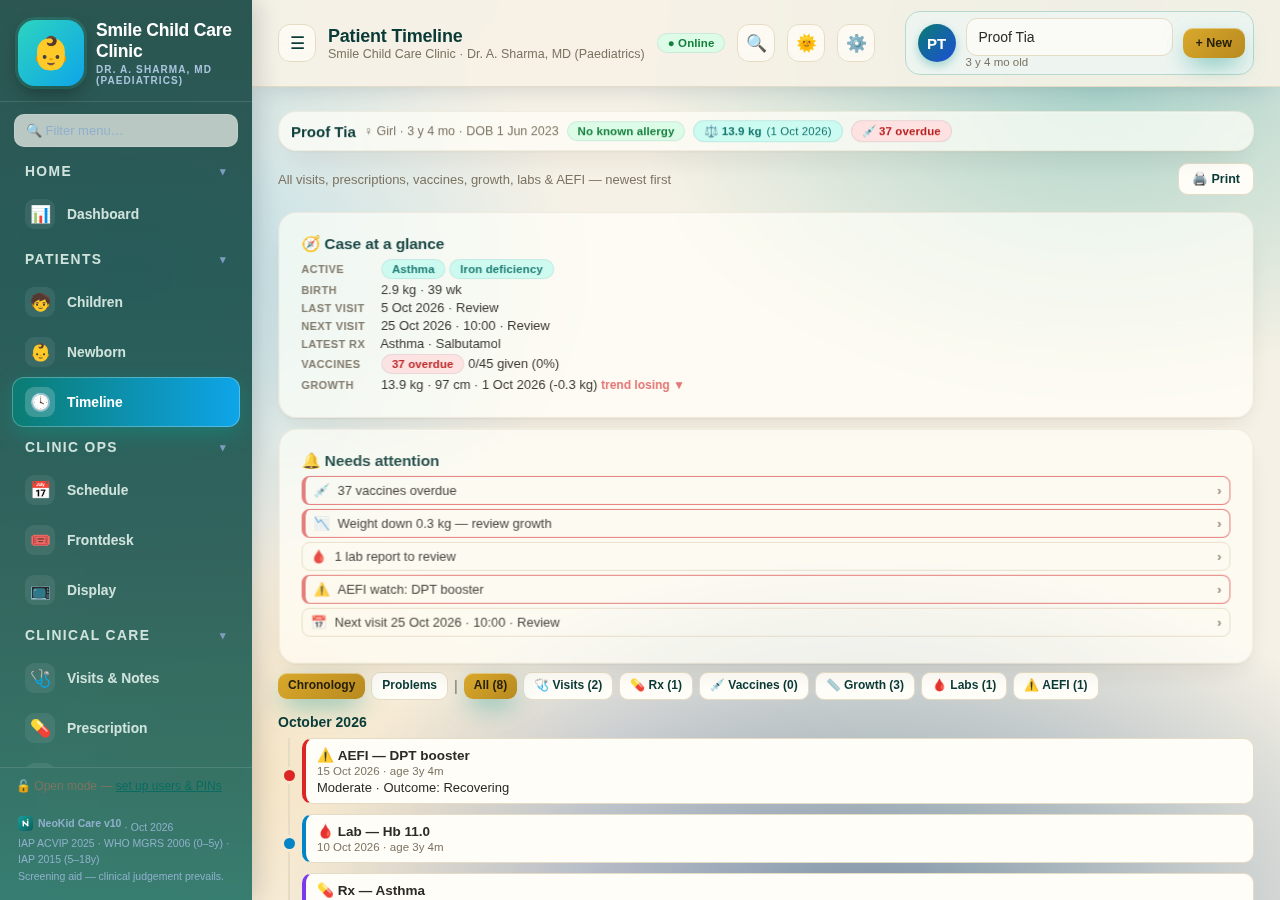
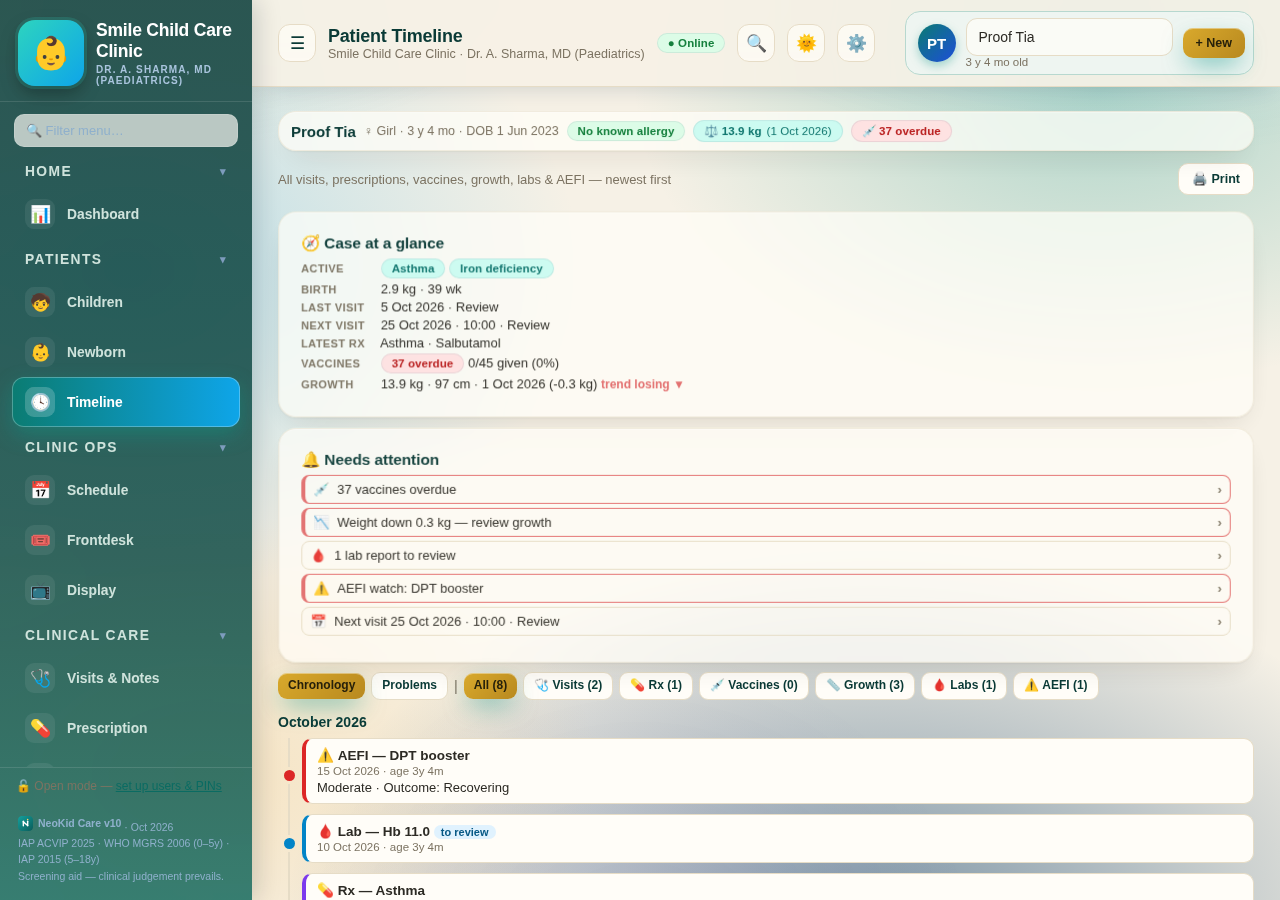
Phase U: category cards in Problems view (Issues/Growth/Vaccine/Labs)
Problems view becomes 4 summary cards with tap-expand; Issues leads
with attention rows then problem groups; AEFI folds into Vaccine;
chips select cards (solo force-opens); lab events carry review flag.
timeline 67/67; suite 21/21 + smoke 8/8; phaseTproof 11/11.
Train v10.52 / SW neokid-v47.

diff --git a/js/app.js b/js/app.js
@@ -726,6 +726,7 @@ function renderChildren() {
 let TIMELINE_FILTER = "all";
 let TIMELINE_VIEW = "chrono"; // Phase T: chrono | problems
 const TIMELINE_OPEN = {}; // Phase T: expanded one-liner keys (stable per data+filter)
+const TIMELINE_CARDS = { issues: 1 }; // Phase U: expanded card keys (issues open by default)
 const TIMELINE_FILTERS = [["all", "All"], ["visit", "🩺 Visits"], ["rx", "💊 Rx"], ["vax", "💉 Vaccines"], ["growth", "📏 Growth"], ["labs", "🩸 Labs"], ["aefi", "⚠ AEFI"]];
 function vaxLabel(code) {
   try {
@@ -835,7 +836,8 @@ function timelineEvents(c) {
   (c.labs || []).forEach((l) => {
     const p = ["mcv", "ferritin", "crp", "b12", "vitD"].map((k) => l[k] ? `${k} ${l[k]}` : "").filter(Boolean);
     if (l.note) p.push(l.note);
-    ev.push({ date: ts(l.date), kind: "labs", icon: "🩸", title: "Lab" + (l.hb ? ` — Hb ${l.hb}` : ""), sub: p.join(" · ") });
+    ev.push({ date: ts(l.date), kind: "labs", icon: "🩸", title: "Lab" + (l.hb ? ` — Hb ${l.hb}` : ""), sub: p.join(" · "),
+      flag: !l.rev ? "to review" : "", flagCls: "" }); // Phase U: review state visible in feed + Labs card
   });
   (c.aefi || []).forEach((e) => { const sev = e.severity || ""; ev.push({ date: ts(e.date), kind: "aefi", icon: "⚠", title: `AEFI — ${e.vacLabel || e.code || ""}`,
     sub: [e.severity, e.outcome && ("Outcome: " + e.outcome), e.reported === "Yes" && "Reported"].filter(Boolean).join(" · "),
@@ -1034,18 +1036,115 @@ function timelineProblemGroups(c, f) {
   } catch (e) {}
   return out;
 }
+/* Phase U: Problems view as category cards (Issues / Growth / Vaccine /
+   Labs). Faces show counts + latest + worst flag; tap expands inline.
+   AEFI folds into the Vaccine card; filter chips select cards. */
+function tlCardsFor(f) {
+  if (f === "visit" || f === "rx") return ["issues"];
+  if (f === "growth") return ["growth"];
+  if (f === "vax" || f === "aefi") return ["vax"];
+  if (f === "labs") return ["labs"];
+  return ["issues", "growth", "vax", "labs"];
+}
+function tlSortedMeasures(c) {
+  try { return [...((c && c.measures) || [])].filter((m) => m && m.date).sort((a, b) => String(a.date).localeCompare(String(b.date))); }
+  catch (e) { return []; }
+}
+function tlLatestLab(c) {
+  try {
+    const ls = [...((c && c.labs) || [])].filter((l) => l && l.date).sort((a, b) => String(b.date).localeCompare(String(a.date)));
+    return ls[0] || null;
+  } catch (e) { return null; }
+}
+function tlCardWrap(key, icon, name, face, badge, body, forceOpen) {
+  const open = !!forceOpen || !!TIMELINE_CARDS[key];
+  return `<div class="card ctx-cardpanel"><button type="button" class="tl-cardhead" data-act="timelineCard" data-arg="${esc(key)}">` +
+    `<span class="ctx-caret">${open ? "▾" : "▸"}</span> <span>${icon}</span> <b>${esc(name)}</b>${badge ? ` <span class="badge b-red">${esc(badge)}</span>` : ""}` +
+    `<span class="tl-cardface">${face}</span></button>${open ? `<div class="tl-cardbody">${body}</div>` : ""}</div>`;
+}
+function tlJumpBtn(page, label) {
+  return `<button type="button" class="btn btn-xs btn-o" data-act="goPage" data-arg="${esc(page)}">${esc(label)} ›</button>`;
+}
+function timelineIssuesHTML(c, f) {
+  let h = "";
+  try {
+    const attn = timelineAttention(c);
+    h += `<div class="tl-subhead">Needs action</div>`;
+    if (!attn.length) h += `<div class="tl-allclear">✅ All clear.</div>`;
+    else h += attn.map((a) => `<button type="button" class="att-row${a.red ? " att-red" : ""}" data-act="goPage" data-arg="${esc(a.page)}"><span>${a.icon}</span><span>${esc(a.text)}</span><span class="att-go">›</span></button>`).join("");
+    const groups = timelineProblemGroups(c, (f === "visit" || f === "rx") ? f : "all");
+    h += `<div class="tl-subhead">Problems</div>`;
+    if (!groups.length) h += `<div class="hint">No visits or prescriptions yet — recorded problems will appear here.</div>`;
+    for (const g of groups) {
+      const gk = "g:" + (g.prob ? ("P:" + (g.prob.code || g.prob.label || "?")) : "GENERAL");
+      const open = !!TIMELINE_CARDS[gk];
+      const last = g.items.length ? fmtDate(g.items[0].date) : "";
+      h += `<button type="button" class="tl-grp" data-act="timelineCard" data-arg="${esc(gk)}"><span class="ctx-caret">${open ? "▾" : "▸"}</span> ` +
+        (g.prob ? `🩺 <b>${esc(g.prob.label || "Problem")}</b>${g.prob.code ? ` <span class="badge b-teal">${esc(g.prob.code)}</span>` : ""}` : `📋 <b>General / unlinked</b>`) +
+        ` <span class="ctx-probmeta">${g.items.length} entr${g.items.length === 1 ? "y" : "ies"}${last ? " · last " + esc(last) : ""}</span></button>`;
+      if (open) h += g.items.length ? g.items.map((e) => timelineRowHTML(c, e)).join("") : `<div class="hint">No linked visits yet.</div>`;
+    }
+  } catch (e) { h += ""; }
+  return h;
+}
+function tlGrowthCard(c) {
+  const ms = tlSortedMeasures(c);
+  if (!ms.length) return { face: `<span style="color:var(--muted)">No records yet</span>`, badge: "", body: `<div class="hint">No growth records yet.</div>` + tlJumpBtn("growth", "Open Growth") };
+  const l = ms[ms.length - 1];
+  const d = timelineLastDelta(c);
+  const tw = timelineTrendWord(c);
+  const face = `${l.wt > 0 ? l.wt + " kg" : "—"}${l.ht > 0 ? " · " + l.ht + " cm" : ""} · ${esc(fmtDate(l.date))}${d ? ` (${esc(d.txt)})` : ""}${tw ? ` · trend ${esc(tw)}` : ""}`;
+  const rows = timelineEvents(c).filter((e) => e.kind === "growth");
+  return { face, badge: (d && d.neg) ? "losing" : "", body: rows.map((e) => timelineRowHTML(c, e)).join("") };
+}
+function tlVaxCard(c) {
+  let vs = null;
+  try { vs = (typeof vaccineSummary === "function") ? vaccineSummary(c) : null; } catch (e) {}
+  const evs = timelineEvents(c);
+  const given = evs.filter((e) => e.kind === "vax");
+  const ae = evs.filter((e) => e.kind === "aefi");
+  let face = "—", badge = "";
+  if (vs) {
+    face = `${vs.done}/${vs.total} (${vs.pct}%)`;
+    if (vs.overdue > 0) { badge = vs.overdue + " overdue"; }
+    else if (vs.next) face += ` · next due ${esc(fmtDate(vs.next.due))}`;
+    else face = "Complete ✓";
+  }
+  let body = "";
+  body += `<div class="tl-subhead">Given (${given.length})</div>`;
+  body += given.length ? given.map((e) => timelineRowHTML(c, e)).join("") : `<div class="hint">None recorded.</div>`;
+  if (ae.length) {
+    body += `<div class="tl-subhead">AEFI (${ae.length})</div>`;
+    body += ae.map((e) => timelineRowHTML(c, e)).join("");
+  }
+  body += tlJumpBtn("vaccines", "Open Vaccines");
+  return { face, badge, body };
+}
+function tlLabsCard(c) {
+  const evs = timelineEvents(c).filter((e) => e.kind === "labs");
+  const unrev = ((c && c.labs) || []).filter((l) => l && !l.rev).length;
+  const l = tlLatestLab(c);
+  const face = l ? `${l.hb ? "Hb " + esc(l.hb) + " · " : ""}${esc(fmtDate(l.date))}${unrev ? ` · ${unrev} to review` : ""}` : `<span style="color:var(--muted)">No records yet</span>`;
+  let body = evs.length ? evs.map((e) => timelineRowHTML(c, e)).join("") : `<div class="hint">No lab records yet.</div>`;
+  body += tlJumpBtn("labs", "Open Labs");
+  return { face, badge: unrev ? unrev + " to review" : "", body };
+}
 function timelineProblemsHTML(c, f) {
   try {
-    const groups = timelineProblemGroups(c, f);
-    if (!groups.length) return `<div class="hint">No visits or prescriptions yet — problems appear here once recorded. Vaccines, growth, labs &amp; AEFI stay in Chronology.</div>`;
+    if (!c) return "";
+    const keys = tlCardsFor(f);
+    const solo = keys.length === 1 ? keys[0] : null;
     let h = "";
-    for (const g of groups) {
-      const last = g.items.length ? fmtDate(g.items[0].date) : "";
-      h += `<div class="card ctx-prob"><div class="ctx-probhead">${g.prob ? `🩺 <b>${esc(g.prob.label || "Problem")}</b>${g.prob.code ? ` <span class="badge b-teal">${esc(g.prob.code)}</span>` : ""}` : `📋 <b>General / unlinked</b>`} <span class="ctx-probmeta">${g.items.length} entr${g.items.length === 1 ? "y" : "ies"}${last ? " · last " + esc(last) : ""}</span></div>`;
-      if (g.items.length) h += g.items.map((e) => timelineRowHTML(c, e)).join("");
-      else h += `<div class="hint">No linked visits yet.</div>`;
-      h += `</div>`;
+    if (keys.includes("issues")) {
+      const groups = timelineProblemGroups(c, (f === "visit" || f === "rx") ? f : "all");
+      const nItems = groups.reduce((n, g) => n + g.items.length, 0);
+      const nProbs = groups.filter((g) => g.prob).length;
+      const nAttn = timelineAttention(c).length;
+      h += tlCardWrap("issues", "🩺", "Issues", `${nProbs} problem${nProbs === 1 ? "" : "s"} · ${nItems} entr${nItems === 1 ? "y" : "ies"}`, nAttn ? nAttn + " to act" : "", timelineIssuesHTML(c, f), solo === "issues");
     }
+    if (keys.includes("growth")) { const g = tlGrowthCard(c); h += tlCardWrap("growth", "📏", "Growth", g.face, g.badge, g.body, solo === "growth"); }
+    if (keys.includes("vax")) { const v = tlVaxCard(c); h += tlCardWrap("vax", "💉", "Vaccine", v.face, v.badge, v.body, solo === "vax"); }
+    if (keys.includes("labs")) { const l = tlLabsCard(c); h += tlCardWrap("labs", "🩸", "Labs", l.face, l.badge, l.body, solo === "labs"); }
     return h;
   } catch (e) { return ""; }
 }
@@ -2222,6 +2321,7 @@ try {
   actRegister("timelineFilter", function (el) { try { TIMELINE_FILTER = actArg(el); renderTimeline(); } catch (e) { actReport("timelineFilter", e); } });
   actRegister("timelineView", function (el) { try { TIMELINE_VIEW = actArg(el) === "problems" ? "problems" : "chrono"; renderTimeline(); } catch (e) { actReport("timelineView", e); } });
   actRegister("timelineExpand", function (el) { try { const k = actArg(el); if (k) { TIMELINE_OPEN[k] = !TIMELINE_OPEN[k]; renderTimeline(); } } catch (e) { actReport("timelineExpand", e); } });
+  actRegister("timelineCard", function (el) { try { const k = actArg(el); if (k) { TIMELINE_CARDS[k] = !TIMELINE_CARDS[k]; renderTimeline(); } } catch (e) { actReport("timelineCard", e); } });
 } catch (e) {}
 
 /* E2b: generic-regex catches (single-arg globals). */

diff --git a/tests/timeline.test.js b/tests/timeline.test.js
@@ -164,9 +164,10 @@ async function main() {
   const rxg = sb.timelineProblemGroups(tia, "rx");
   ok(rxg.length === 2 && rxg[0].items.length === 1 && rxg.every((g) => g.prob), "T3 kind filter applies, empty General omitted");
   const phtml = sb.timelineHTML(tia, "all", "problems");
-  ok(phtml.includes("General / unlinked") && phtml.includes("J45") && phtml.includes("ctx-prob"), "T3 problems view renders groups");
+  ok(phtml.includes("General / unlinked") && phtml.includes("J45") && phtml.includes("tl-cardhead"), "T3 problems view renders groups");
   ok(!phtml.includes("ctx-group"), "T3 problems view has no month dividers");
-  ok(sb.timelineProblemsHTML({ ...tia, visits: [], rx: [], problems: [] }, "all").includes("Chronology"), "T3 empty problems hint points to Chronology");
+  const pempty = sb.timelineProblemsHTML({ ...tia, visits: [], rx: [], problems: [] }, "all");
+  ok((pempty.match(/tl-cardhead/g) || []).length === 4 && pempty.includes("No visits or prescriptions yet"), "U empty problems view still shows 4 cards + hint");
 
   // ---- Chronology view + expand wiring ----
   const ch = sb.timelineHTML(tia, "all");
@@ -185,6 +186,41 @@ async function main() {
   ok(tev.every((e) => e.key) && tev.filter((e) => e.kind === "visit").every((e) => e.ref && e.ref.subj !== undefined), "events carry keys + visit refs");
   ok(vm.runInContext("TIMELINE_VIEW", sb) === "chrono", "default view is Chronology");
   ok(vm.runInContext("typeof Act !== 'undefined' && !!(Act.timelineView && Act.timelineExpand)", sb), "view + expand actions registered");
+
+  // ---- Phase U: category cards ----
+  const cardMap = { all: 4, visit: 1, rx: 1, vax: 1, growth: 1, labs: 1, aefi: 1 };
+  ok(Object.entries(cardMap).every(([k, n]) => sb.tlCardsFor(k).length === n), "U chips map to card sets");
+  ok(sb.tlCardsFor("visit")[0] === "issues" && sb.tlCardsFor("aefi")[0] === "vax", "U visit->Issues, aefi->Vaccine");
+  vm.runInContext("Object.keys(TIMELINE_CARDS).forEach((k) => delete TIMELINE_CARDS[k]); TIMELINE_CARDS.issues=1;", sb);
+  const pcards = sb.timelineProblemsHTML(tia, "all"); // cards only (phtml includes snapshot+rail)
+  ok((pcards.match(/tl-cardhead/g) || []).length === 4, "U four card heads");
+  ok(pcards.includes("2 problems · 4 entries") && pcards.includes("5 to act"), "U Issues face counts");
+  ok(pcards.includes("Needs action") && pcards.includes("overdue") && pcards.includes('data-arg="vaccines"'), "U Issues attention on top");
+  ok(pcards.includes("Asthma") && pcards.includes("2 entries") && !pcards.includes("Salbutamol"), "U problem groups collapsed by default");
+  vm.runInContext('TIMELINE_CARDS["g:P:J45"]=1;', sb);
+  ok(sb.timelineProblemsHTML(tia, "all").includes("Salbutamol"), "U group expand reveals entries");
+  vm.runInContext('delete TIMELINE_CARDS["g:P:J45"];', sb);
+  ok(pcards.includes("13.9 kg") && pcards.includes("-0.3 kg") && !pcards.includes("14.4 kg"), "U Growth face latest-only");
+  vm.runInContext("TIMELINE_CARDS.growth=1;", sb);
+  ok(sb.timelineProblemsHTML(tia, "all").includes("14.4 kg"), "U Growth expand reveals history");
+  vm.runInContext("delete TIMELINE_CARDS.growth;", sb);
+  ok(pcards.includes("losing") && /\(\d+%\)/.test(pcards), "U Growth losing badge + Vaccine immun-%");
+  vm.runInContext("TIMELINE_CARDS.vax=1;", sb);
+  const vaxOpen = sb.timelineProblemsHTML(tia, "all");
+  ok(vaxOpen.includes("DPT booster") && vaxOpen.includes("AEFI (1)"), "U AEFI folds into Vaccine card");
+  vm.runInContext("delete TIMELINE_CARDS.vax;", sb);
+  ok(pcards.includes("Hb 11.0") && pcards.includes("1 to review"), "U Labs face latest + review count");
+  ok(sb.timelineEvents(tia).filter((e) => e.kind === "labs" && e.flag === "to review").length === 1, "U lab events carry review flag");
+  const soloGrowth = sb.timelineProblemsHTML(tia, "growth");
+  ok(soloGrowth.includes('data-arg="growth"') && !soloGrowth.includes('data-arg="vax"') && !soloGrowth.includes('data-arg="issues"'), "U growth chip isolates Growth card");
+  ok(soloGrowth.includes("14.4 kg"), "U solo card force-opens");
+  ok(sb.timelineProblemsHTML(tia, "labs").includes("Hb 11.0"), "U labs chip isolates Labs card");
+  const evilProb = sb.timelineProblemsHTML({ ...tia, problems: [{ label: "X<script>" }] }, "all");
+  ok(!evilProb.includes("<script>") && evilProb.includes("X&lt;script&gt;"), "U problem labels escaped");
+  ok(sb.timelineProblemsHTML(clr, "visit").includes("All clear."), "U all-clear Issues for healthy child");
+  ok(sb.tlGrowthCard({ ...tia, measures: [] }).body.includes("Open Growth"), "U empty Growth card jumps to page");
+  ok(vm.runInContext("typeof Act !== 'undefined' && !!Act.timelineCard", sb), "U card toggle action registered");
+  vm.runInContext("Object.keys(TIMELINE_CARDS).forEach((k) => delete TIMELINE_CARDS[k]); TIMELINE_CARDS.issues=1;", sb);
 
   console.log(`\ntimeline: ${pass} passed, ${fail} failed`);
   process.exit(fail ? 1 : 0);

diff --git a/sw.js b/sw.js
@@ -1,5 +1,5 @@
 /* NeoKid Care service worker v37 — offline-first shell, background refresh, offline fallback */
-const CACHE = "neokid-v46";
+const CACHE = "neokid-v47";
 const SHELL = ["./", "./index.html", "./manifest.json", "./icon.svg", "./icon-192.png", "./icon-512.png", "./icon-maskable-512.png", "./apple-touch-icon.png", "./css/style.css", "./js/data.js", "./js/brands.js", "./js/ref-who.js", "./js/ref-cdc.js", "./js/growth.js", "./js/growth-chart.js", "./js/app.js", "./js/qrcode.min.js", "./js/clinic.js", "./js/aids.js", "./js/drugs.js", "./js/rx.js", "./js/front.js", "./js/nb.js", "./js/cdata.gen.js", "./js/migrate.js", "./js/content.js", "./js/i18n.js", "./js/forms.js", "./js/scores.js", "./js/alerts.js", "./js/terms.js", "./js/hx.js", "./js/exam.js", "./js/dose.js", "./js/labs.js", "./js/aefi.js", "./js/screen.js", "./js/chronic.js", "./js/labpanels.js", "./js/letters.js", "./js/fhirx.js", "./js/comply.js", "./js/diet.js", "./js/consent.js", "./js/handouts.js", "./js/handbook.js", "./js/exports.js", "./js/docs.js", "./js/config.js", "./js/vendor/supabase.js", "./js/syncmerge.js", "./js/cmdk.js", "./js/validate.js", "./js/merge.js", "./js/idb.js", "./js/delegate.js", "./js/boot.js", "./js/cloud.js", "./js/tenant.js", "./js/sync-rel.js", "./js/nicu.js", "./js/mar.js", "./js/hri.js", "./js/calc.js", "./js/mrd.js", "./js/metrics.js", "./js/formulary.js", "./js/ops.js", "./handbook/phase1.html", "./handbook/phase2.html", "./handbook/phase3.html", "./handbook/phase4.html"];
 const OFFLINE_HTML = "<!DOCTYPE html><html><head><meta charset='utf-8'><meta name='viewport' content='width=device-width,initial-scale=1'><title>NeoKid Care — Offline</title><style>body{font-family:system-ui,sans-serif;background:#0c2340;color:#fff;display:flex;align-items:center;justify-content:center;min-height:100vh;margin:0;text-align:center;padding:24px}h1{font-size:22px}p{opacity:.85;line-height:1.6}button{background:#0e7c7b;color:#fff;border:0;border-radius:10px;padding:12px 24px;font-size:16px;margin-top:12px}</style></head><body><div><div style='font-size:52px'>📴</div><h1>You are offline</h1><p>NeoKid Care could not reach the network and this page is not cached yet.<br>Your saved data is safe on this device.</p><button onclick='location.reload()'>Try again</button></div></body></html>";
 self.addEventListener("install", (e) => {

diff --git a/proofs/phaseTproof.js b/proofs/phaseTproof.js
@@ -69,12 +69,19 @@ function serve() {
     await pg.waitForTimeout(400);
     await pg.screenshot({ path: path.join(R, "proofs/phaseT-chrono.png") });
     await pg.$eval('button[data-act="timelineView"][data-arg="problems"]', (b) => b.click());
-    await pg.waitForSelector(".ctx-prob", { timeout: 5000 });
-    const probs = await pg.$$eval(".ctx-prob", (els) => els.map((e) => e.textContent));
-    ok(probs.length === 3 && probs[0].includes("Asthma") && probs[2].includes("General"), `T3 problems view: ${probs.length} groups`);
+    await pg.waitForSelector(".tl-cardhead", { timeout: 5000 });
+    const cards = await pg.$$eval(".tl-cardhead", (els) => els.map((e) => e.textContent));
+    ok(cards.length === 4 && cards[0].includes("Issues") && cards[1].includes("Growth") && cards[2].includes("Vaccine") && cards[3].includes("Labs"), "U four category cards");
+    ok(cards[0].includes("to act") && cards[2].includes("overdue"), "U card faces carry flags");
+    await pg.$eval('button[data-act="timelineCard"][data-arg="growth"]', (b) => b.click());
+    await pg.waitForFunction(() => document.querySelectorAll(".ctx-cardpanel .ctx-item").length >= 3, null, { timeout: 5000 });
+    ok(true, "U Growth card expands to entries");
+    await pg.$$eval(".tl-grp", (els) => els[0].click());
+    await pg.waitForFunction(() => document.body.textContent.includes("Salbutamol"), null, { timeout: 5000 });
+    ok(true, "U Asthma group expands to entries");
     await pg.evaluate(() => window.scrollTo(0, 0));
     await pg.waitForTimeout(400);
-    await pg.screenshot({ path: path.join(R, "proofs/phaseT-problems.png") });
+    await pg.screenshot({ path: path.join(R, "proofs/phaseT-problems.png"), fullPage: true });
     await pg.$eval('button[data-act="timelineView"][data-arg="chrono"]', (b) => b.click());
     await pg.waitForSelector(".tl-attn .att-row", { timeout: 5000 });
     await pg.$$eval(".tl-attn .att-row", (els) => els[0].click());

diff --git a/css/style.css b/css/style.css
@@ -623,6 +623,14 @@ table.tbl tr:hover td{background:color-mix(in srgb,var(--teal) 7%,var(--rowh))}
 .ctx-probmeta{font-size:12px;color:var(--muted)}
 .ctx-trend{font-size:12px;color:var(--muted)}
 .ctx-trend-bad{color:#e26d6d;font-weight:700}
+/* Phase U: category cards */
+.ctx-cardpanel{margin-bottom:10px}
+.tl-cardhead{display:flex;gap:8px;align-items:baseline;width:100%;text-align:left;background:transparent;border:none;padding:2px;cursor:pointer;color:inherit;font-family:inherit;font-size:15px}
+.tl-cardface{margin-left:auto;font-size:12px;color:var(--muted);text-align:right}
+.tl-cardbody{margin-top:6px}
+.tl-subhead{font-size:12px;font-weight:800;text-transform:uppercase;letter-spacing:.4px;color:var(--muted);margin:8px 0 4px}
+.tl-grp{display:flex;gap:6px;align-items:baseline;width:100%;text-align:left;background:transparent;border:1px solid var(--line);border-radius:8px;padding:6px 8px;margin:4px 0;font-size:13px;cursor:pointer;color:inherit;font-family:inherit}
+.tl-grp:hover{border-color:var(--teal)}
 .ctx-dot.ctx-visit{background:#0d9488}.ctx-card.ctx-visit{border-left-color:#0d9488}
 .ctx-dot.ctx-rx{background:#7c3aed}.ctx-card.ctx-rx{border-left-color:#7c3aed}
 .ctx-dot.ctx-vax{background:#16a34a}.ctx-card.ctx-vax{border-left-color:#16a34a}

diff --git a/tests/syncmerge.test.js b/tests/syncmerge.test.js
@@ -205,7 +205,7 @@ function baseDB() {
   ok(/function applySnapshot\(data, quiet\)[\s\S]*?SyncMerge\.merge/.test(syCloud), "applySnapshot merge-applies (never wholesale-replaces)");
   ok(html.indexOf("js/syncmerge.js") !== -1 && html.indexOf("js/syncmerge.js") < html.indexOf("js/cloud.js"), "syncmerge loads before cloud");
   ok(sw.includes("./js/syncmerge.js"), "SW shell caches syncmerge");
-  ok(/var APP_VER = "v10\.51"/.test(syCloud) && /neokid-v46/.test(sw), "version pins (app v10.51, sw v46)");
+  ok(/var APP_VER = "v10\.52"/.test(syCloud) && /neokid-v47/.test(sw), "version pins (app v10.52, sw v47)");
 }
 
 console.log(`syncmerge: ${pass} pass, ${fail} fail`);

diff --git a/tests/cloud-offline.test.js b/tests/cloud-offline.test.js
@@ -99,7 +99,7 @@ async function main() {
     if (!fs.existsSync(path.join(R, m[1]))) missing.push("SHELL:" + m[1]);
   }
   ok(!missing.length, "all script/SHELL files resolve" + (missing.length ? ": " + missing.join(",") : ""));
-  ok(/neokid-v46/.test(sw), "SW cache bumped to v46 (Phase T: productive timeline)");
+  ok(/neokid-v47/.test(sw), "SW cache bumped to v47 (Phase U: category cards)");
   ok(html.includes('<div class="tabs no-print" id="growthSubTabs">'), "growth sub-tabs hidden in print");
 
   const C = sb.Cloud;

diff --git a/js/cloud.js b/js/cloud.js
@@ -18,7 +18,7 @@ var TRIAL_DAYS = CFG.TRIAL_DAYS || 14;
 var GRACE_MS = (CFG.OFFLINE_GRACE_DAYS || 7) * 864e5;
 var STATUS_KEY = "kidgrow_cloud_status", HASH_KEY = "kidgrow_last_push_hash", SEEN_KEY = "kidgrow_cloud_seen";
 var LATEST_KEY = "kidgrow_cloud_latest"; // "id|created_at" of newest cloud row this device has seen
-var APP_VER = "v10.51";
+var APP_VER = "v10.52";
 try { if (typeof window !== "undefined") window.APP_VER = APP_VER; } catch (e) {}
 
 var sb = null, session = null, profile = null;

diff --git a/api/health.js b/api/health.js
@@ -1,6 +1,6 @@
 /* GET /api/health — liveness + dependency presence for uptime monitors.
    NEVER echoes secrets, URLs, or key material — booleans only. */
-let VERSION = "10.51.0";
+let VERSION = "10.52.0";
 try { VERSION = require("../package.json").version || VERSION; } catch (e) {}
 
 module.exports = async function handler(req, res) {
